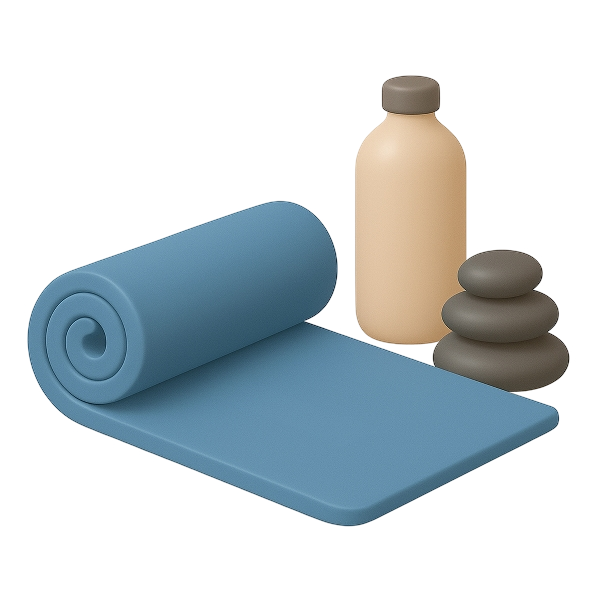
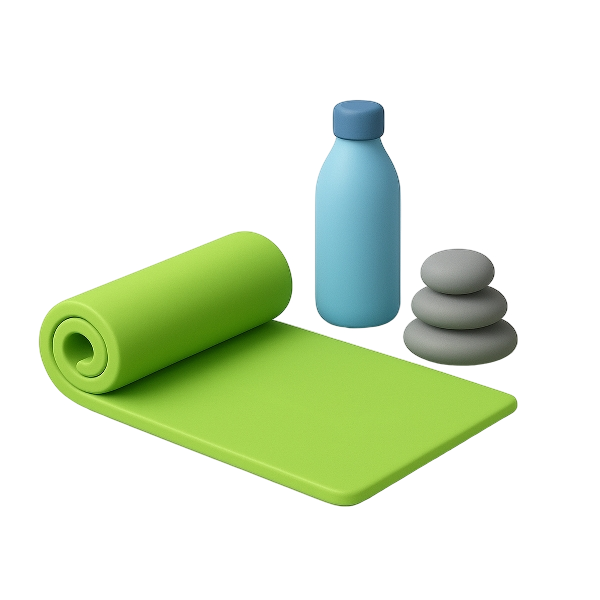
Add event images

diff --git a/routes/organiser.js b/routes/organiser.js
@@ -298,7 +298,9 @@ router.post('/create', (req, res) => {
         'event-mat.png',
         'event-sun.png',
         'event-pose2.png',
-        'event-ball.png'
+        'event-ball.png',
+        'event-lily.png',
+        'event-pilates.png'
     ];
 
     // Pick a random image
